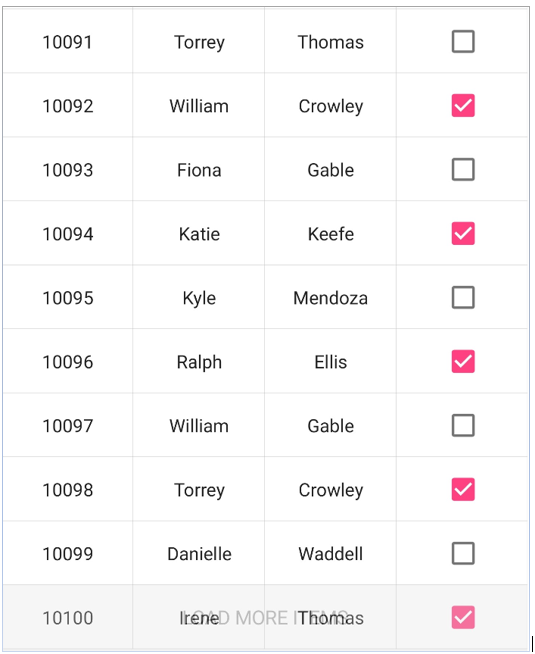
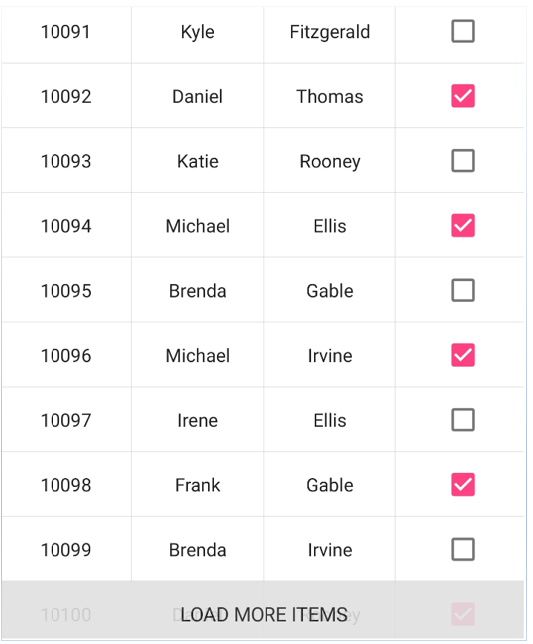
LoadMoreViewOpacity.png is changed

diff --git a/Xamarin/DataGrid/Swiping.md b/Xamarin/DataGrid/Swiping.md
@@ -528,7 +528,7 @@ Using `DataTemplateSelector` you can load specific views based on row data as `S
     {
         protected override DataTemplate OnSelectTemplate(object item, BindableObject container)
         {
-            var value = (item as OrderInfo).IsClosed;
+            var value = (item as OrderInfo).IsOnline;
             if (value)
             {
                 var dataTemplate = new DataTemplate(() =>
@@ -567,7 +567,7 @@ Using `DataTemplateSelector` you can load specific views based on row data as `S
     {
         protected override DataTemplate OnSelectTemplate(object item, BindableObject container)
         {
-            var value = (item as OrderInfo).IsClosed;
+            var value = (item as OrderInfo).IsOnline;
             if (value)
             {
                 var dataTemplate = new DataTemplate(() =>
@@ -604,7 +604,7 @@ Using `DataTemplateSelector` you can load specific views based on row data as `S
 
 {% endhighlight %}
 
-You can download the sample [here](https://www.syncfusion.com/downloads/support/directtrac/general/ze/DataGrid_TemplateSector-942227262.zip) to load custom swipe buttons based on row data
+You can download the sample [here](https://www.syncfusion.com/downloads/support/directtrac/general/ze/DataGrid_TemplateSector1402376153.zip) to load custom swipe buttons based on row data
 
 The following screenshot shows the custom swipe buttons loaded based on the cell value of the Is Online switch column.
 

diff --git a/Xamarin/DataGrid/Load-More.md b/Xamarin/DataGrid/Load-More.md
@@ -207,7 +207,7 @@ The data grid also allows to customize the opacity of the [LoadMoreView](https:/
 
 {% highlight c# %}
 
- dataGrid.LoadMoreView.Opacity = 0.3;
+ dataGrid.LoadMoreView.Opacity = 0.9;
 
 {% endhighlight %}
 
